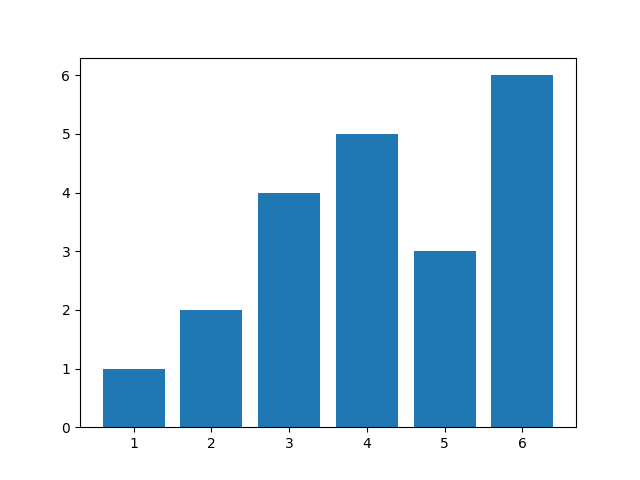
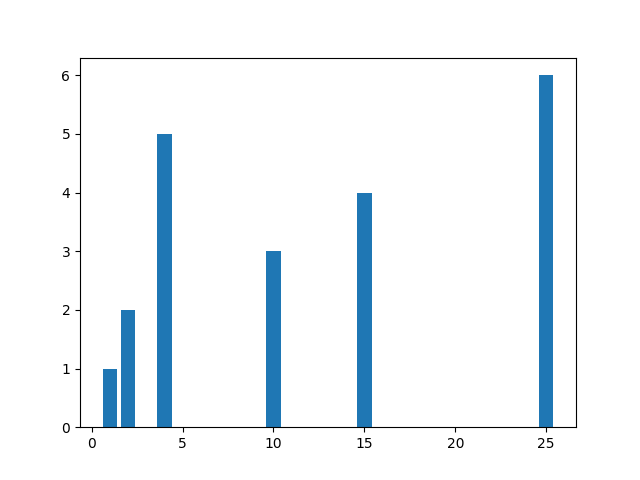
create main

Changed region(s): [[0.1562, 0.1562, 0.875, 0.9375], [0.125, 0.9062, 0.1562, 0.9375]]

diff --git a/test.py b/test.py
@@ -11,12 +11,12 @@
 # import mouse #user input, may be redundant due to tkinter
 #--------------------------------------------------------------
 
-import matplotlib.pyplot as plt #drawing graphs
+import matplotlib.pyplot as plt #drawing/generating graphs
 import numpy as np #used for arrays
 import tkinter #GUI 
 
 
-values = np.array([1, 2, 5, 6, 3, 4])
+values = np.array([1, 10, 2, 15, 25, 4])
 indices = np.array ([1, 2, 3, 4, 5, 6])
 sizeA = len(values)
 
@@ -35,8 +35,5 @@ for i in range(sizeA):
         plt.clf()
         plt.bar(values, indices)    
         plt.savefig(f"visual-sorter-cs221/saved_figures/fig_{i}_{j}")
-        # plt.pause(0.5)
     if (inner_loop_called == 0):
         break
-
-# plt.show()

diff --git a/main.py b/main.py
@@ -1,0 +1,7 @@
+import tkinter as tk
+mainWindow = tk.Tk("DSA Visualizer", "DSA Visualizer", " ")
+
+w = tk.Label(mainWindow, text="DSA Visualizer")
+w.pack()
+
+mainWindow.mainloop()
